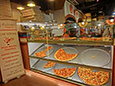
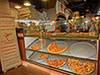
perf tuning 4

diff --git a/index.html b/index.html
@@ -47,7 +47,7 @@
             </li>
 
             <li>
-                <img style="width: 115px;" src="img/pizzeria.jpg">
+                <img style="width: 100px;" src="img/pizzeria.jpg">
                 <a href="views/pizza.html">Cam's Pizzeria</a>
 
                 <p>Who wants a performant pizza?</p>
